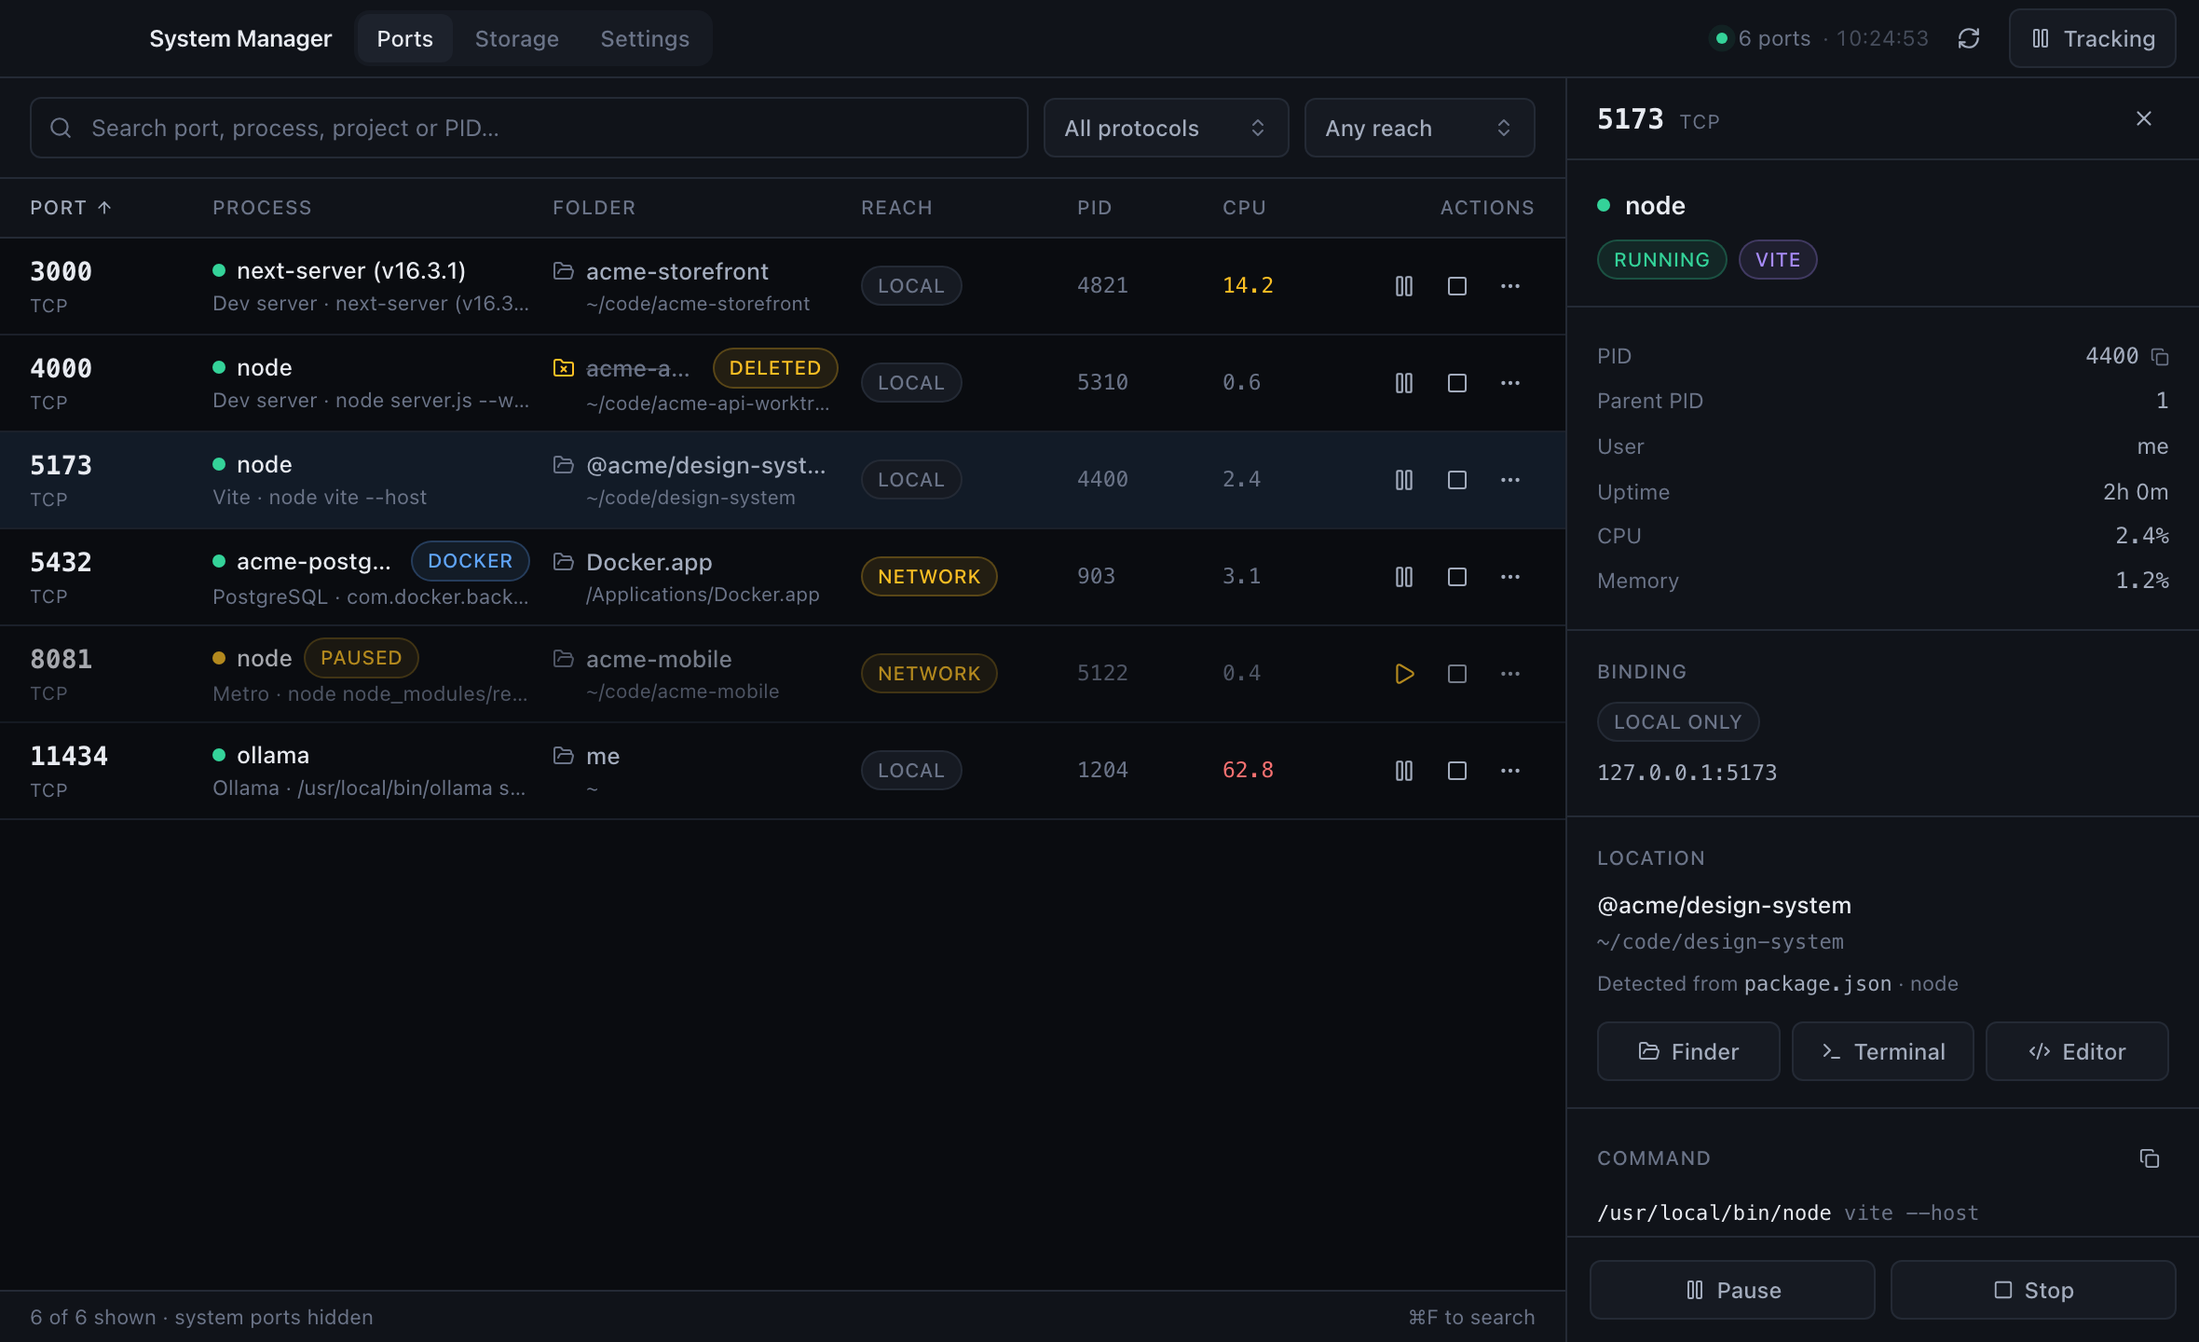
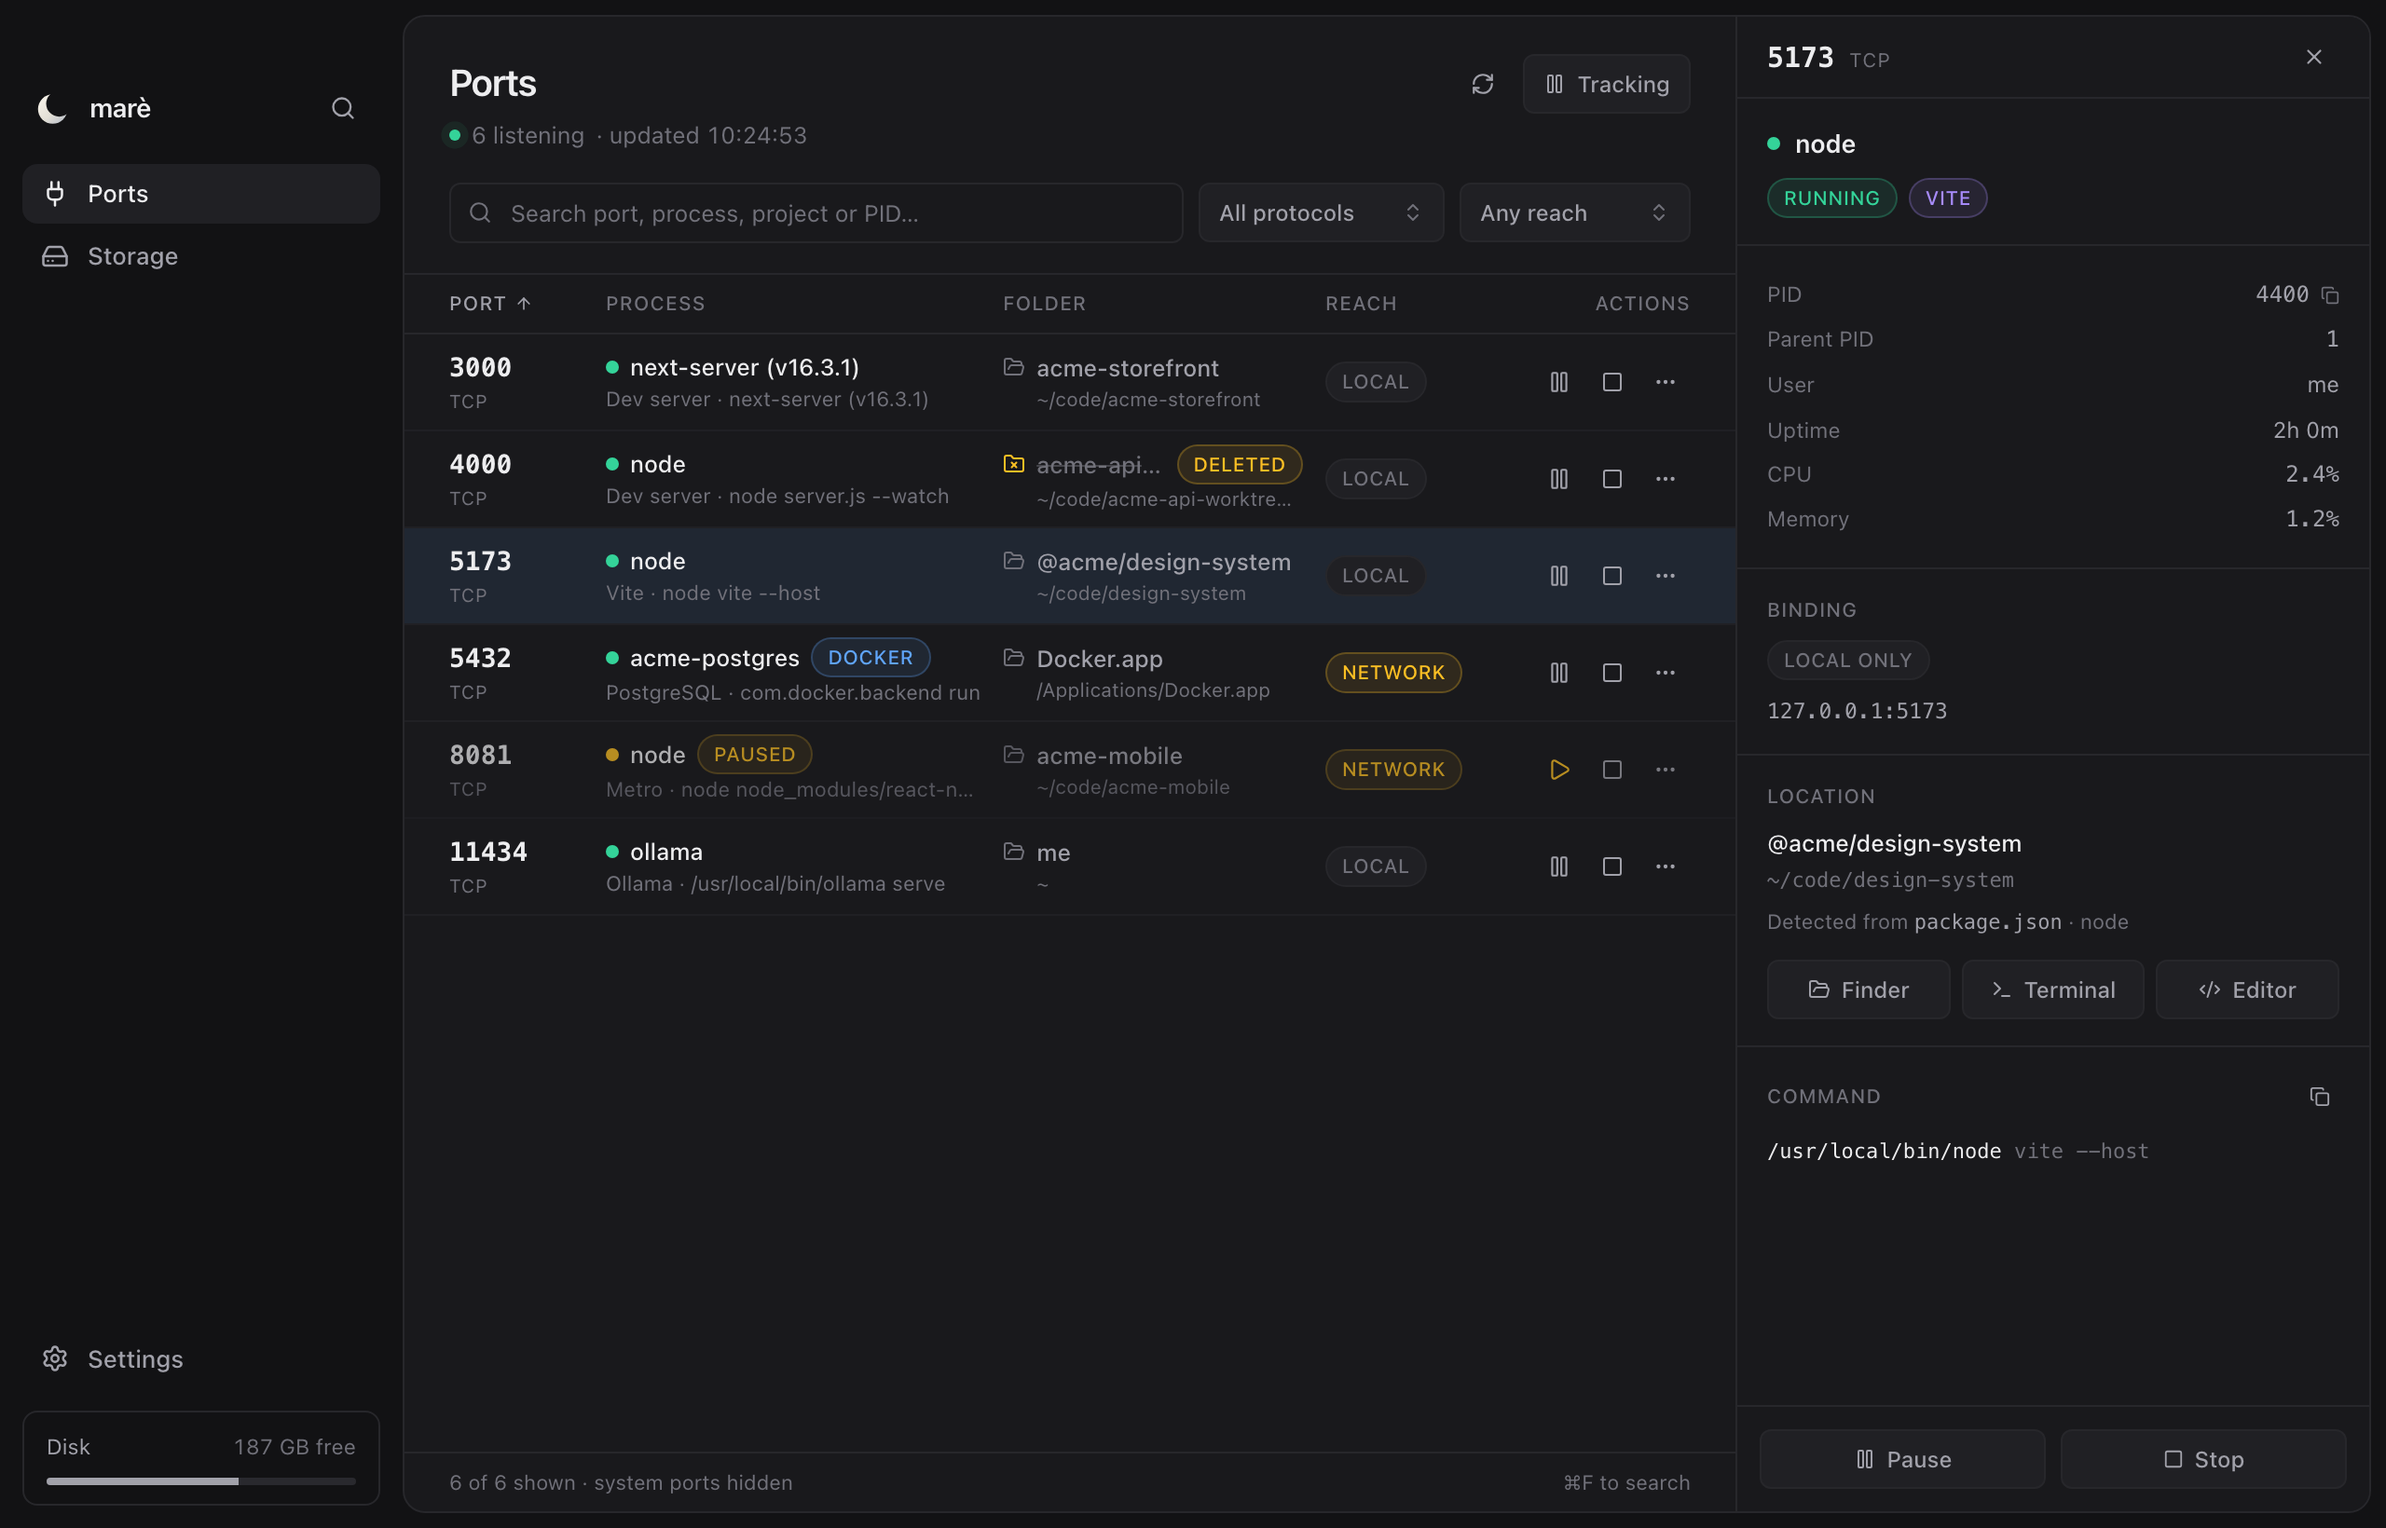
docs: rename to marè and show the new layout

diff --git a/README.md b/README.md
@@ -1,8 +1,8 @@
 <div align="center">
 
-<img src="src-tauri/icons/128x128@2x.png" width="104" alt="System Manager">
+<img src="src-tauri/icons/128x128@2x.png" width="104" alt="marè">
 
-# System Manager
+# marè
 
 **See what's using your Mac's ports and disk, and clear space without breaking anything.**
 
@@ -13,16 +13,19 @@
 ![The Storage overview, using the same categories as System Settings](docs/images/storage.png)
 
 System Settings shows how much space System Data takes, but not what's in it, and
-offers no way to remove any of it. System Manager breaks it down into the caches,
+offers no way to remove any of it. marè breaks it down into the caches,
 package stores and leftover files behind it, shows what deleting each one would really
 free, and clears the ones that rebuild themselves.
 
 It also lists every listening port on your Mac with the project folder behind it, so
-"what's on 5173 and can I stop it?" takes one glance instead of three commands.
+"what's on 5173 and can I stop it?" takes one glance instead of three commands. Press
+⌘K from anywhere to jump to a port, a storage category or a page.
+
+![Search, opened with ⌘K](docs/images/search.png)
 
 ## Install
 
-System Manager runs on macOS 10.15 or later, on Apple Silicon and Intel.
+marè runs on macOS 10.15 or later, on Apple Silicon and Intel.
 
 ### With the install script
 
@@ -54,7 +57,7 @@ brew trust --tap heisdeku/tap
 ```
 
 ```bash
-brew install --cask system-manager
+brew install --cask mare
 ```
 
 Homebrew asks you to trust a tap before it installs from one that isn't official.
@@ -62,19 +65,19 @@ Homebrew asks you to trust a tap before it installs from one that isn't official
 ### From the disk image
 
 Download the `.dmg` from the [latest release](https://github.com/heisdeku/constellation/releases/latest)
-and drag System Manager into Applications.
+and drag marè into Applications.
 
-System Manager isn't notarised by Apple yet, so the first time you open a copy
+marè isn't notarised by Apple yet, so the first time you open a copy
 downloaded in a browser, macOS says it can't check the app for malware. To open it:
 
-1. Open System Manager once and close the warning.
+1. Open marè once and close the warning.
 2. Open System Settings › Privacy & Security.
-3. Under Security, click Open Anyway next to System Manager, then confirm.
+3. Under Security, click Open Anyway next to marè, then confirm.
 
 Or remove the download flag in Terminal, which has the same effect:
 
 ```bash
-xattr -dr com.apple.quarantine "/Applications/System Manager.app"
+xattr -dr com.apple.quarantine "/Applications/marè.app"
 ```
 
 The install script and Homebrew do this for you, so their installs open without a
@@ -108,7 +111,7 @@ Pause and stop send real signals to the process:
 Pause a dev server you aren't using right now. It stops using CPU and keeps its port
 until you resume it.
 
-System Manager won't signal macOS's own critical processes, processes run by other
+marè won't signal macOS's own critical processes, processes run by other
 users, or itself. It also checks that the PID still belongs to the process you picked,
 so a recycled PID is never hit.
 
@@ -130,7 +133,7 @@ Sizes show what deleting would free, which is often much less than Finder or `du
 reports. APFS lets files share disk blocks, and a shared block only comes back once
 nothing uses it. On one Mac, Chrome had left 69 copies of itself behind after crashes.
 `du` counted them as 118 GB; deleting them all freed 2.3 GB, and that's the number
-System Manager shows.
+marè shows.
 
 Each item is marked:
 
@@ -153,7 +156,7 @@ anything is removed. It also refuses to touch:
 
 ## Privacy and permissions
 
-System Manager makes no network requests. It runs as you, with no admin password and
+marè makes no network requests. It runs as you, with no admin password and
 no background process, and reads your Mac only while it's open.
 
 macOS may ask for a few permissions the first time you use Storage:
@@ -164,7 +167,7 @@ macOS may ask for a few permissions the first time you use Storage:
 - Full Disk Access, which is optional. Without it, Storage can't see Messages, Photos
   or a few system folders, and says how many items it couldn't read. To grant it,
   open System Settings › Privacy & Security › Full Disk Access, click +, and choose
-  System Manager.
+  marè.
 
 ## Development
 

diff --git a/docs/development.md b/docs/development.md
@@ -1,6 +1,6 @@
 # Development
 
-System Manager is a Tauri v2 app. A Rust backend reads the system, and the UI is
+marè is a Tauri v2 desktop app. A Rust backend reads the system, and the UI is
 React 19 with TanStack Router, Tailwind v4 and Base UI.
 
 ## Requirements
@@ -16,20 +16,20 @@ pnpm install
 ```
 
 ```bash
-pnpm app
+pnpm dev
 ```
 
-`pnpm app` runs `tauri dev`, which starts Vite and the Rust app together. `pnpm dev`
-on its own serves only the web UI, which has no backend, so the app shows an error
-explaining that.
+`pnpm dev` runs `tauri dev`, which builds the Rust app and opens it, serving the UI
+from Vite with hot reload. The UI only runs inside the app; `pnpm ui:dev` starts the
+Vite server on its own, which Tauri does for you.
 
 ## Build an app bundle
 
 ```bash
-pnpm app:build
+pnpm build
 ```
 
-This writes `System Manager.app` and a disk image under `src-tauri/target/release/bundle/`,
+This writes `marè.app` and a disk image under `src-tauri/target/release/bundle/`,
 for the Mac you build on. The release workflow builds one app for both Apple Silicon and
 Intel instead:
 
@@ -61,13 +61,13 @@ The [release workflow](../.github/workflows/release.yml) refuses a tag that does
 match the app version. It runs the tests, builds the universal app, and publishes a
 GitHub release with:
 
-- `System-Manager-<version>-macos-universal.zip`, which the install script and
+- `mare-<version>-macos-universal.zip`, which the install script and
   Homebrew download
-- `System-Manager-<version>-macos-universal.dmg`, for browser downloads
+- `mare-<version>-macos-universal.dmg`, for browser downloads
 - `checksums.txt`, which the install script verifies against
-- `system-manager.rb`, the Homebrew cask filled in for this version
+- `mare.rb`, the Homebrew cask filled in for this version
 
-To update Homebrew, copy `system-manager.rb` from the release into `Casks/` in the
+To update Homebrew, copy `mare.rb` from the release into `Casks/` in the
 [heisdeku/homebrew-tap](https://github.com/heisdeku/homebrew-tap) repository.
 
 The install script and the downloads only work once the repository and its releases
@@ -75,15 +75,15 @@ are public.
 
 ### Test the install script locally
 
-`scripts/package-release.sh` builds the same assets locally, and `SYSTEM_MANAGER_RELEASE_URL`
-points the install script at them. `SYSTEM_MANAGER_DIR` keeps it away from `/Applications`:
+`scripts/package-release.sh` builds the same assets locally, and `MARE_RELEASE_URL`
+points the install script at them. `MARE_DIR` keeps it away from `/Applications`:
 
 ```bash
 scripts/package-release.sh 0.1.0 /tmp/sm-release
 ```
 
 ```bash
-SYSTEM_MANAGER_DIR=/tmp/sm-apps SYSTEM_MANAGER_RELEASE_URL=file:///tmp/sm-release bash scripts/install.sh --version 0.1.0 --no-open
+MARE_DIR=/tmp/sm-apps MARE_RELEASE_URL=file:///tmp/sm-release bash scripts/install.sh --version 0.1.0 --no-open
 ```
 
 ## Tests
@@ -141,8 +141,9 @@ checks again before acting, and measuring and cleaning walk the same list of pat
 ```
 src/
   routes/          TanStack Router routes: __root, index (Ports), storage, settings
-  components/      Port table, detail panel, actions, toasts, Base UI wrappers
-  lib/             Tauri bindings, filtering, formatting, app and storage state, motion
+  components/      Port table, detail panel, ⌘K search, logo, actions, toasts, Base UI wrappers
+  lib/             Tauri bindings, filtering, formatting, app and storage state, motion,
+                   storage categories
 src-tauri/src/
   lib.rs           Tauri commands
   ports.rs         lsof parsing, grouping, Docker details
@@ -155,6 +156,21 @@ scripts/
   package-release.sh  Collects a build into release assets
 packaging/homebrew/   Cask template, filled in by the release workflow
 docs/icon.svg      Icon artwork, with instructions for regenerating the icons
+```
+
+## App icon
+
+The icon's source is `docs/icon.svg`. Render it with a rasteriser that keeps the
+transparent margin (`qlmanage` doesn't; it adds a white background):
+
+```bash
+"/Applications/Google Chrome.app/Contents/MacOS/Google Chrome" --headless --disable-gpu --force-device-scale-factor=1 --default-background-color=00000000 --window-size=1024,1024 --screenshot=icon.png "file://$PWD/docs/icon.svg"
+```
+
+Then regenerate every size:
+
+```bash
+pnpm tauri icon icon.png
 ```
 
 ## Screenshots
